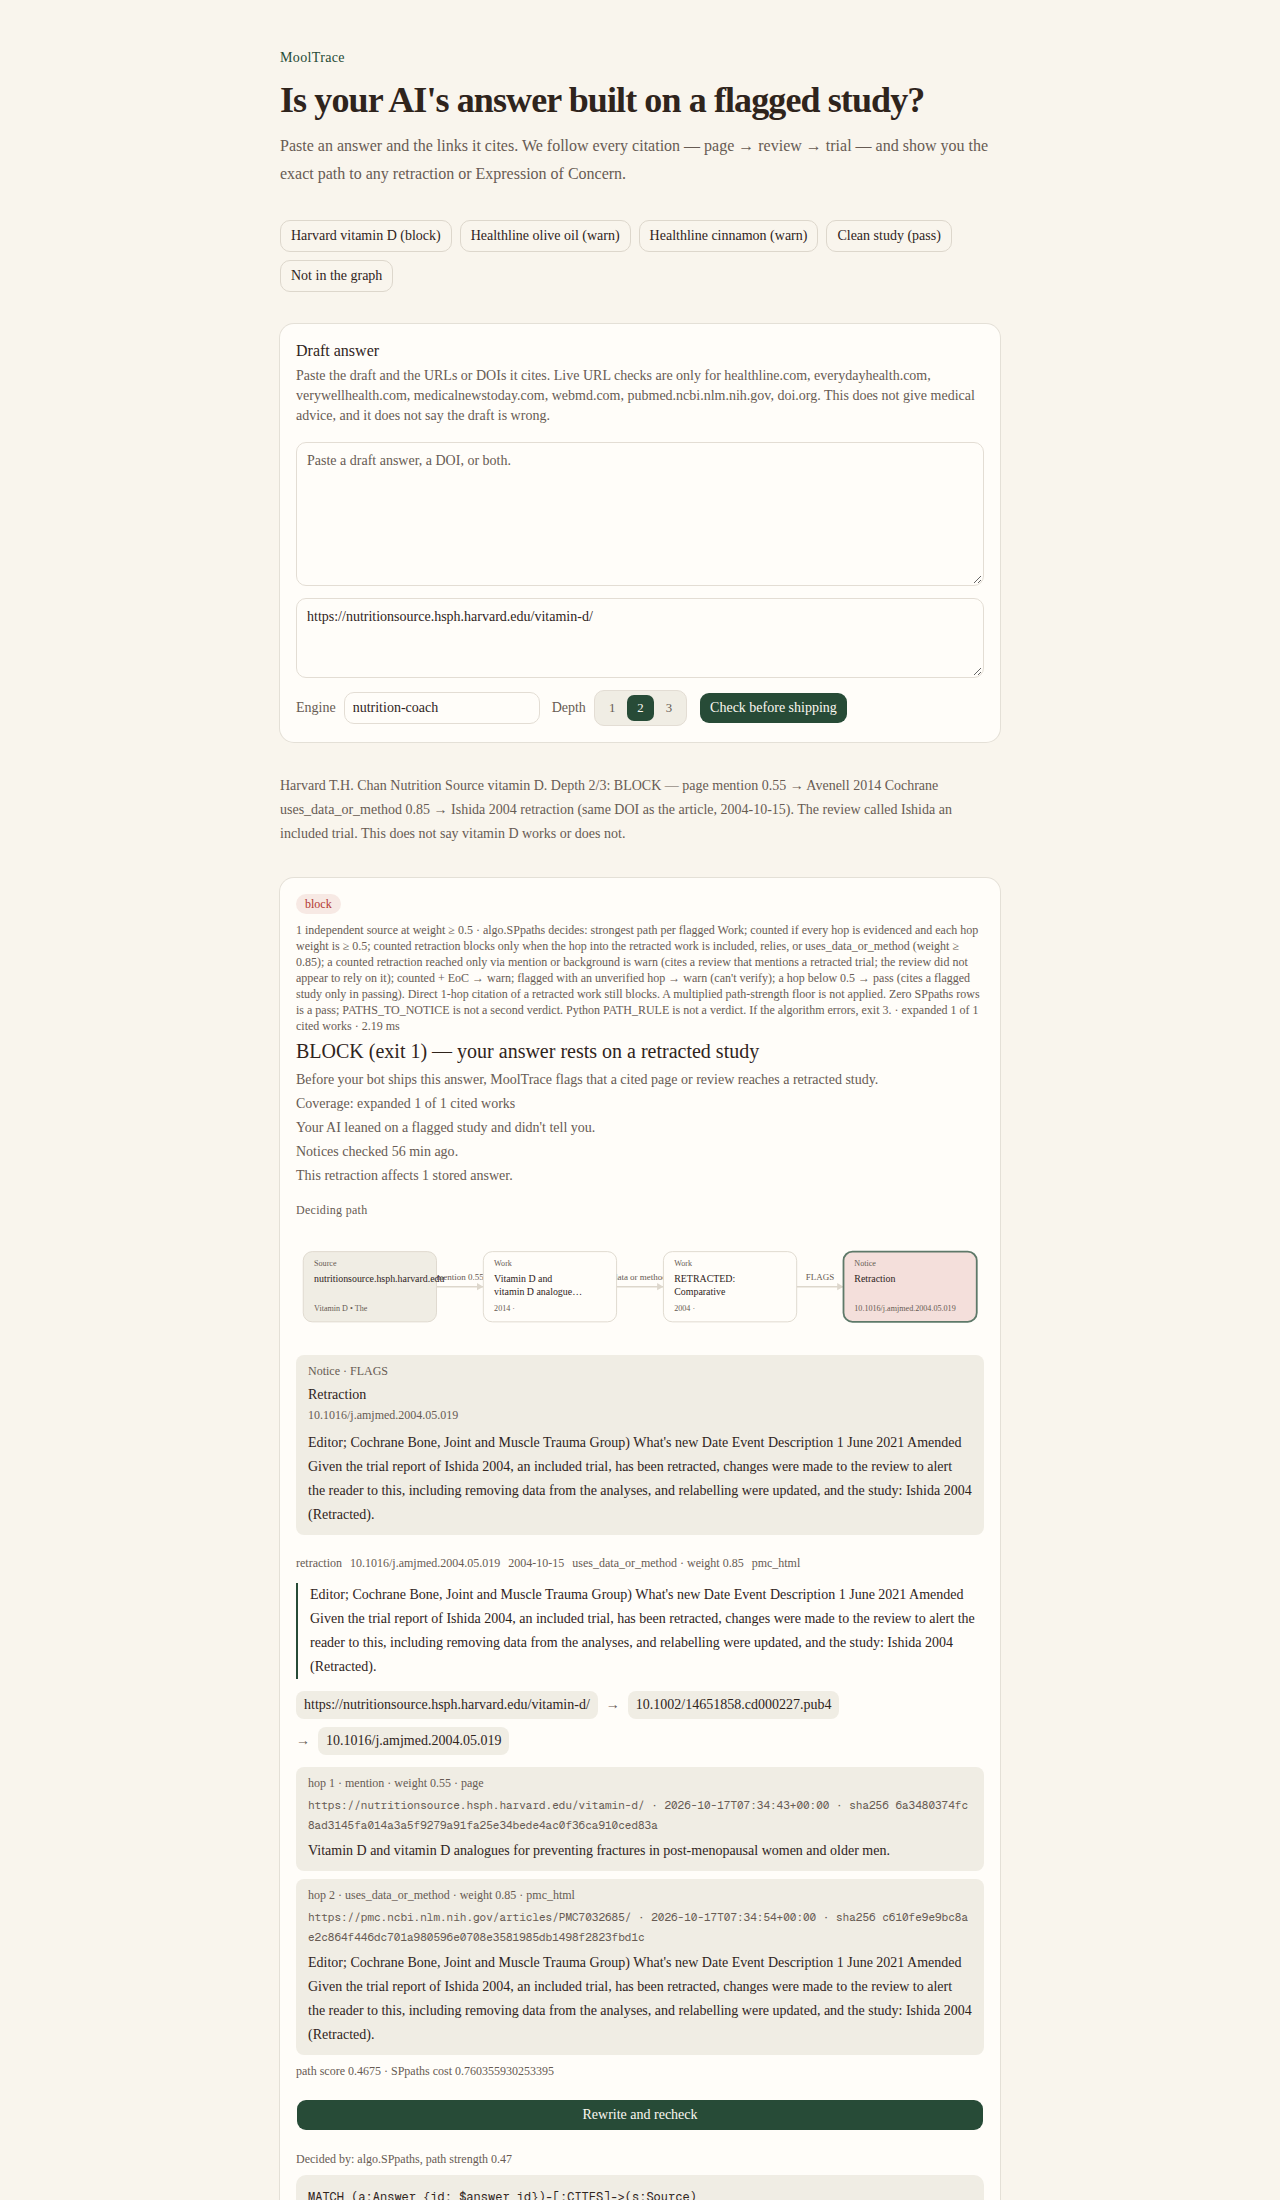
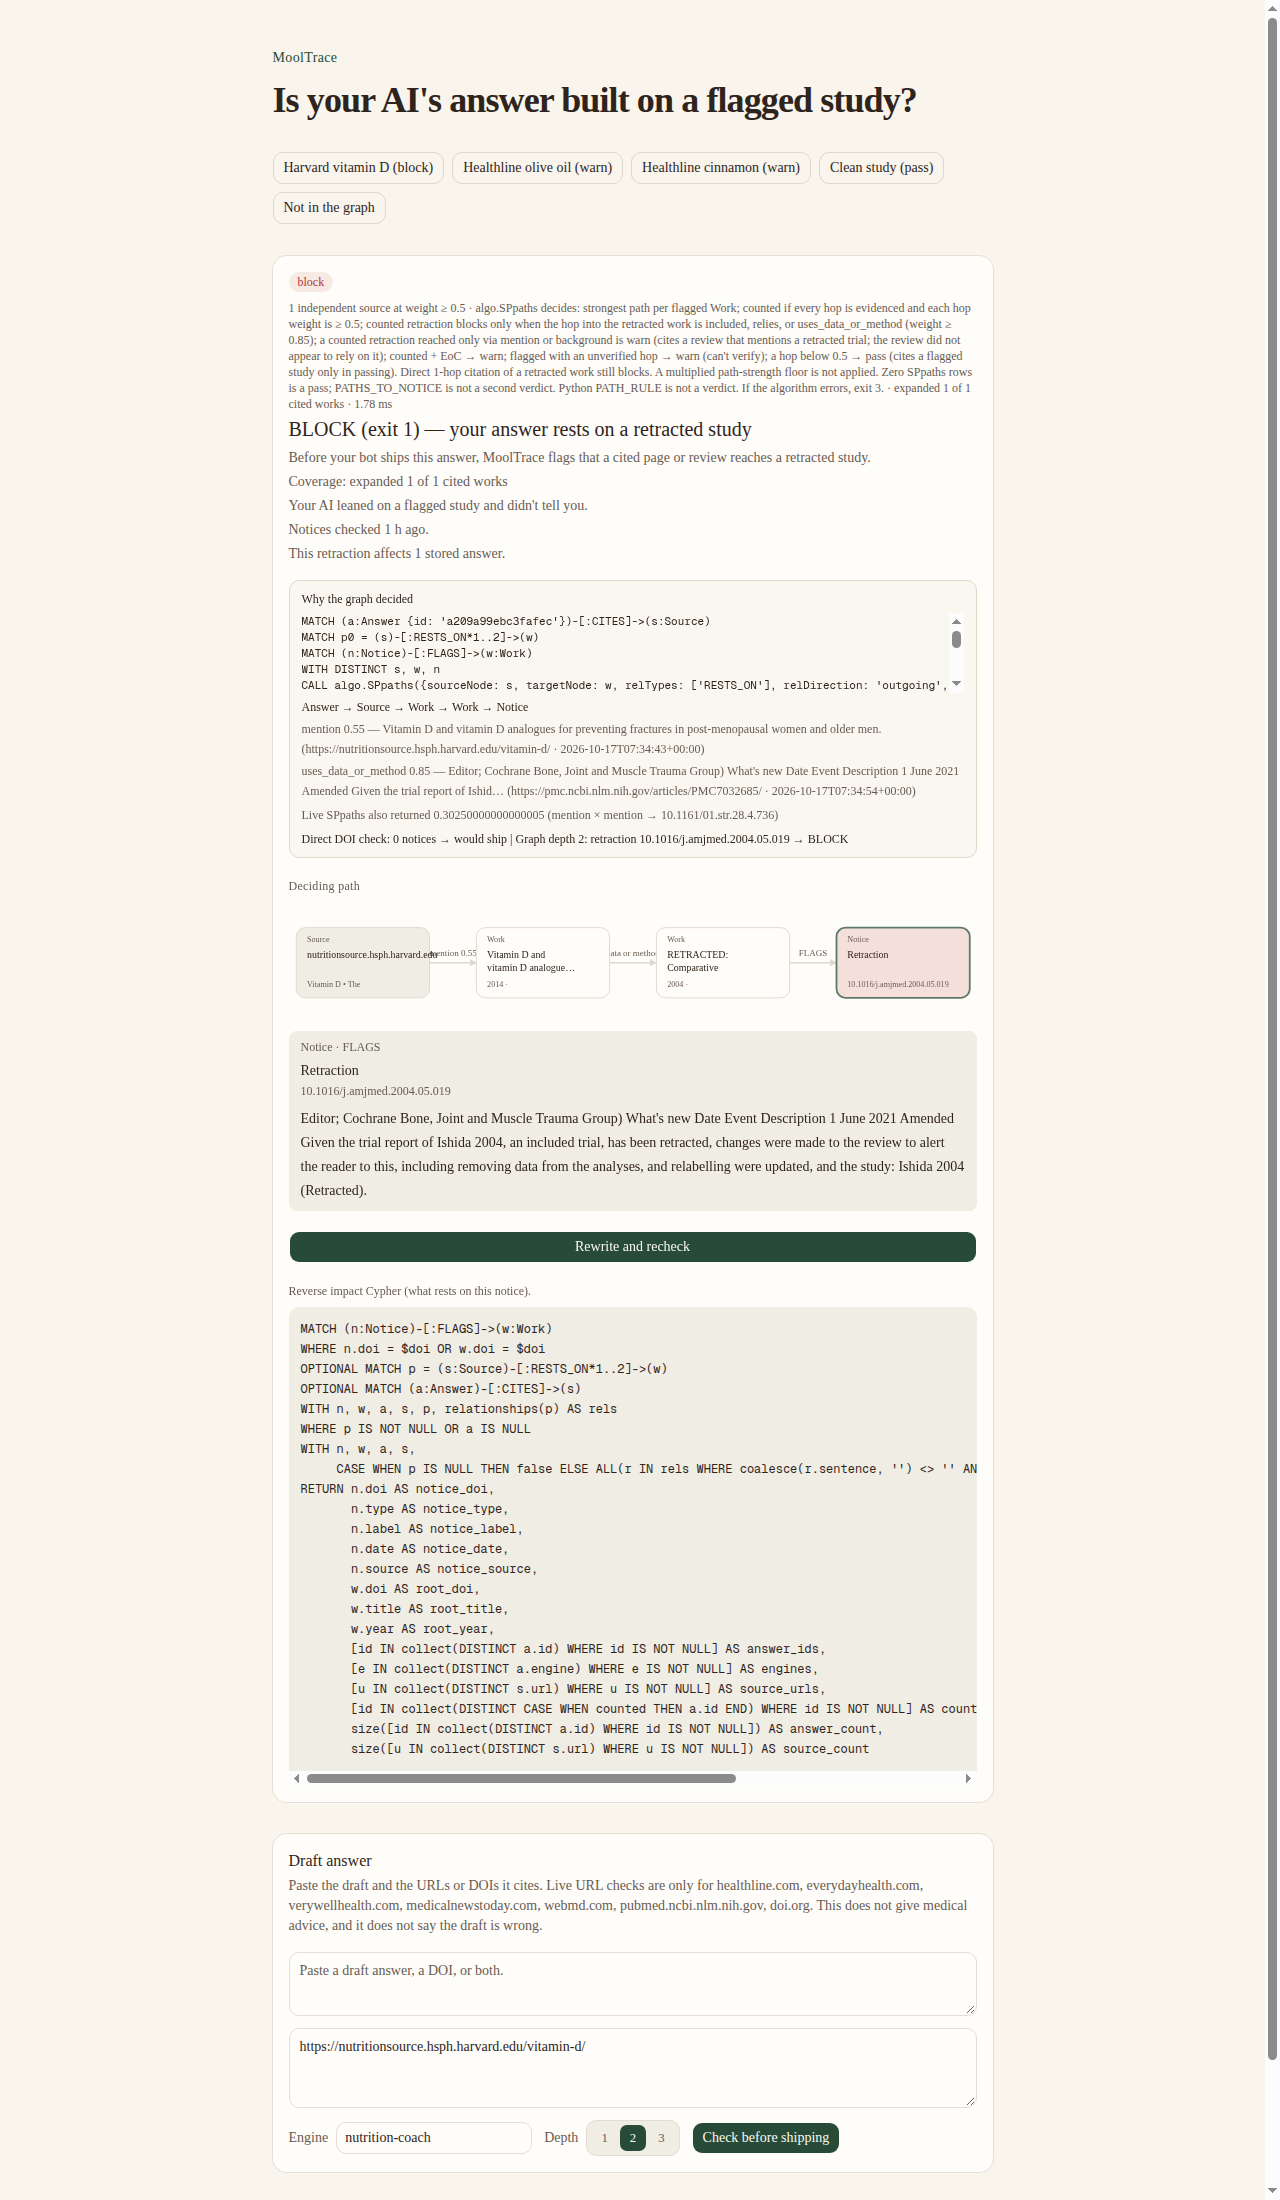
Put the verdict and Why-the-graph panel above the fold.
The draft form no longer hides BLOCK at 1280x800, and the screenshots
are recaptured from the seeded local demo.

Changed region(s): [[0.2188, 0.0309, 0.7812, 1.0], [0.9688, 0.0, 1.0, 0.9273]]

diff --git a/web/src/components/pre-ship.tsx b/web/src/components/pre-ship.tsx
@@ -323,7 +323,9 @@ function ResultCard({
         {counted.length === 0 ? (
           <p className="text-sm leading-6 text-muted-foreground">{result.limits}</p>
         ) : null}
-        {counted.map((reason, index) => (
+        {result.why_graph
+          ? null
+          : counted.map((reason, index) => (
           <article key={`${reason.notice_doi}-${reason.root_doi}-${index}`} className="flex flex-col gap-3">
             {index > 0 ? <Separator /> : null}
             <div className="flex flex-wrap gap-2 text-xs text-muted-foreground">
@@ -621,10 +623,12 @@ export function PreShip() {
         <h1 className="text-3xl font-semibold tracking-tight text-balance sm:text-4xl">
           Is your AI&apos;s answer built on a flagged study?
         </h1>
-        <p className="text-base leading-7 text-muted-foreground">
-          Paste an answer and the links it cites. We follow every citation — page → review → trial —
-          and show you the exact path to any retraction or Expression of Concern.
-        </p>
+        {result ? null : (
+          <p className="text-base leading-7 text-muted-foreground">
+            Paste an answer and the links it cites. We follow every citation — page → review → trial —
+            and show you the exact path to any retraction or Expression of Concern.
+          </p>
+        )}
       </header>
 
       <div className="flex flex-wrap gap-2">
@@ -640,6 +644,13 @@ export function PreShip() {
           </Button>
         ))}
       </div>
+
+      {result ? (
+        <div data-testid="verdict-first">
+          <ResultCard result={result} onRewrite={() => void runRewrite()} rewriting={rewriting} />
+        </div>
+      ) : null}
+
       <Card>
         <CardHeader>
           <CardTitle>Draft answer</CardTitle>
@@ -657,7 +668,7 @@ export function PreShip() {
               setText(event.target.value)
             }}
             placeholder="Paste a draft answer, a DOI, or both."
-            className="min-h-36"
+            className={result ? "min-h-16" : "min-h-36"}
           />
           <Textarea
             value={urls}
@@ -768,7 +779,7 @@ export function PreShip() {
         </p>
       ) : null}
 
-      {presetId === "harvard-vitamin-d" ? (
+      {presetId === "harvard-vitamin-d" && !result ? (
         <p className="text-sm leading-6 text-muted-foreground" data-testid="block-hero">
           Harvard T.H. Chan Nutrition Source vitamin D. Depth 1: PASS (0 notice paths). Depth 2/3:
           BLOCK — page mention 0.55 → Avenell 2014 Cochrane uses_data_or_method 0.85 → Ishida 2004
@@ -784,10 +795,6 @@ export function PreShip() {
           are mention; the review did not appear to rely on the trial. The 2013 trial was retracted
           and republished in 2018 after re-analysis.
         </p>
-      ) : null}
-
-      {result ? (
-        <ResultCard result={result} onRewrite={() => void runRewrite()} rewriting={rewriting} />
       ) : null}
 
       {rewrite?.text ? (

diff --git a/tests/test_graph_why.py b/tests/test_graph_why.py
@@ -177,3 +177,5 @@ def test_ui_renders_why_the_graph_decided_from_payload():
     assert "why_graph" in src
     assert "without_graph" in src
     assert "max-h-20" in src
+    assert 'data-testid="verdict-first"' in src
+    assert src.index('data-testid="verdict-first"') < src.index("Draft answer")

diff --git a/README.md b/README.md
@@ -8,7 +8,7 @@ WeMakeDevs × FalkorDB Graph Hacks, Track 01: **Agents That Act on Connected Dat
 
 ![Harvard Nutrition Source vitamin D BLOCK path](assets/demo-harvard-vitamin-d-block.png)
 
-Signed-out headless Chrome 1280×2200 capture, 17 Oct 2026, of the local seeded demo `http://127.0.0.1:4318/?preset=harvard-vitamin-d` (Lightsail pin pending `aws login`). BLOCK (exit 1). Page `mention` 0.55 → Avenell 2014 Cochrane `uses_data_or_method` 0.85 → Ishida 2004 retraction `10.1016/j.amjmed.2004.05.019` (2004-10-15). `Decided by: algo.SPpaths, path strength 0.47`. The review called Ishida an included trial. This does not say vitamin D works or does not.
+Signed-out headless Chrome 1280×2200 capture, 17 Oct 2026, of the local seeded demo `http://127.0.0.1:4318/?preset=harvard-vitamin-d` (Lightsail pin pending `aws login`). BLOCK (exit 1). Page `mention` 0.55 → Avenell 2014 Cochrane `uses_data_or_method` 0.85 → Ishida 2004 retraction `10.1016/j.amjmed.2004.05.019` (2004-10-15). `Decided by: algo.SPpaths, path strength 0.47`. The **Why the graph decided** panel shows the filled `algo.SPpaths` Cypher, the fixture hops, and `Direct DOI check: 0 notices → would ship` vs `Graph depth 2: retraction 10.1016/j.amjmed.2004.05.019 → BLOCK`. The review called Ishida an included trial. This does not say vitamin D works or does not.
 
 ```bash
 python3 -m venv .venv && .venv/bin/pip install -e .
@@ -230,7 +230,7 @@ Open [http://127.0.0.1:4318](http://127.0.0.1:4318). API health is [http://127.0
 
 ![Healthline cinnamon WARN path](assets/healthline-warn.png)
 
-Signed-out headless Chrome 1280×2200 capture, 17 Oct 2026, of `https://mooltrace.h9g8gwz2b559t.ap-south-1.cs.amazonlightsail.com/?preset=healthline`. WARN (exit 2). Page `mention` 0.55 → Silva 2022 `relies` 1.0 → Khan 2003 Expression of Concern `10.2337/dc25-ec09` (2025-08-20). `Decided by: algo.SPpaths, path strength 0.55`. An Expression of Concern is not a retraction. This does not say cinnamon works or does not.
+Signed-out headless Chrome 1280×2200 capture, 17 Oct 2026, of the local seeded demo `http://127.0.0.1:4318/?preset=healthline` (Lightsail pin pending `aws login`). WARN (exit 2). Page `mention` 0.55 → Silva 2022 `relies` 1.0 → Khan 2003 Expression of Concern `10.2337/dc25-ec09` (2025-08-20). `Decided by: algo.SPpaths, path strength 0.55`. An Expression of Concern is not a retraction. This does not say cinnamon works or does not.
 
 Example `--summary` from a cold Healthline check on 16 Oct 2026:
 
